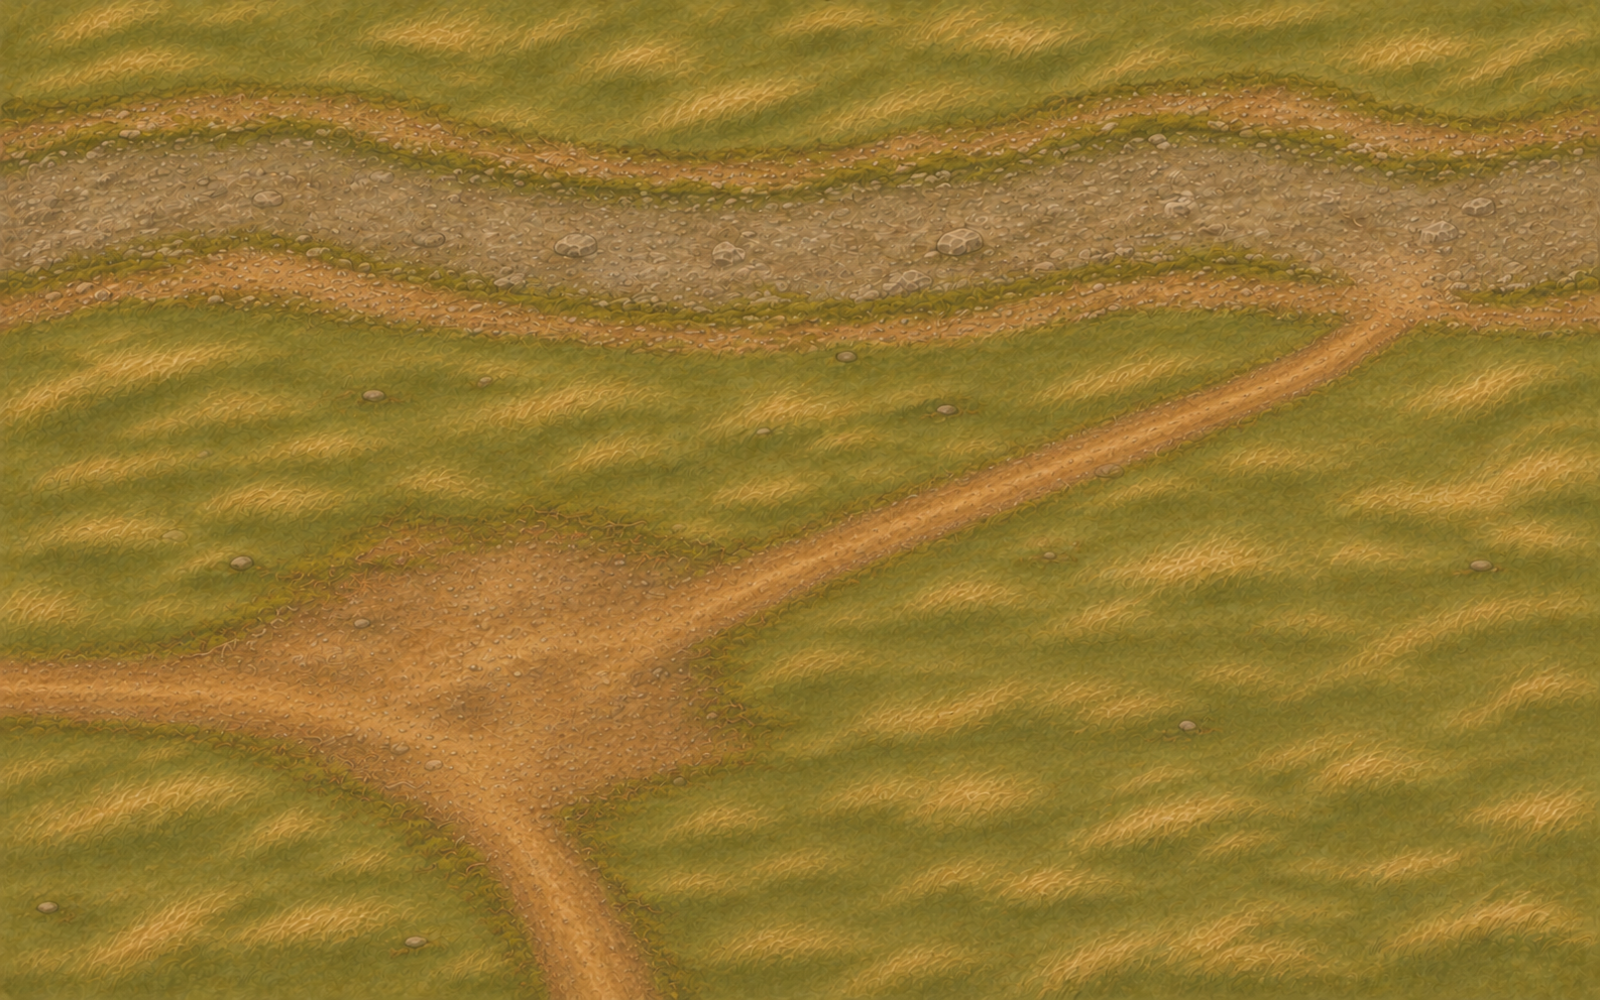
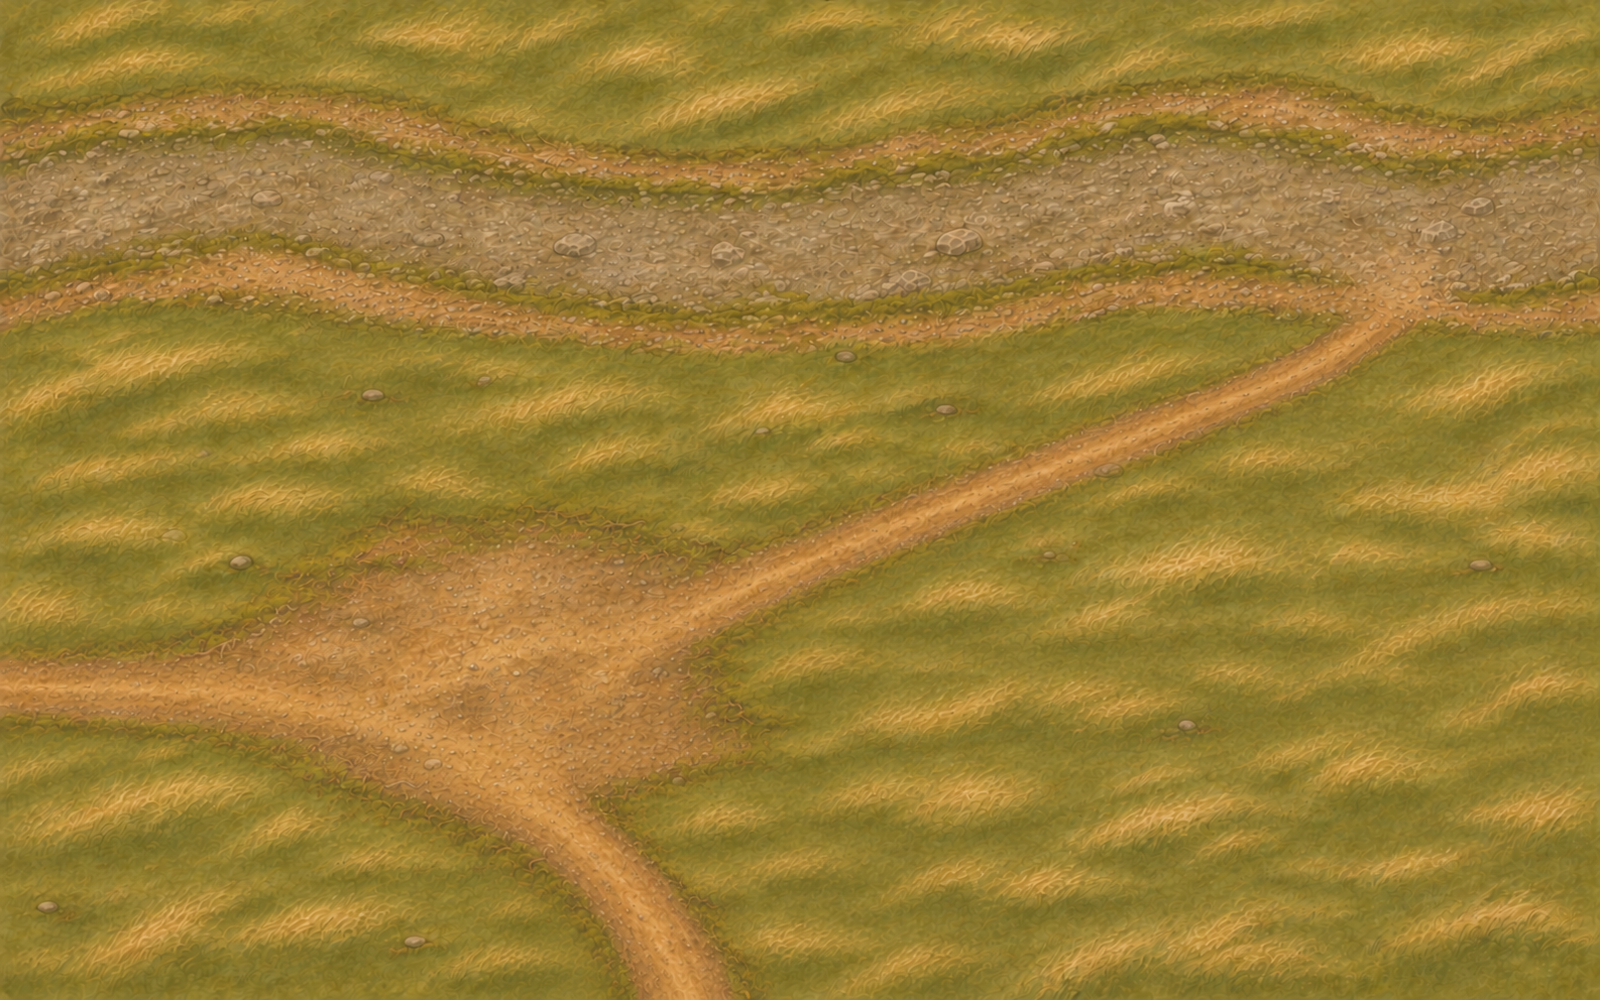
Refine Bogd Khan Uul visual landmarks

Changed region(s): [[0.2188, 0.744, 0.4688, 1.0], [0.2812, 0.589, 0.3125, 0.62]]

diff --git a/tests/unit/bogdKhanUulLevel.test.ts b/tests/unit/bogdKhanUulLevel.test.ts
@@ -45,7 +45,7 @@ describe('Bogd Khan Uul authored layout', () => {
     expect(BOGD_KHAN_UUL.world).toMatchObject({
       width: 6400,
       height: 4000,
-      terrainSize: 6400,
+      terrainSize: 8000,
       minX: -3200,
       minY: -2000,
       camp: { x: -2050, y: -500 },
@@ -56,7 +56,7 @@ describe('Bogd Khan Uul authored layout', () => {
   });
 
   it('has two elevation tiers joined by two broad ramps', () => {
-    expect(BOGD_KHAN_UUL.rise).toBe(240);
+    expect(BOGD_KHAN_UUL.rise).toBe(320);
     expect(BOGD_KHAN_UUL.plateaus).toHaveLength(1);
     expect(shoulder.ramps).toHaveLength(2);
     for (const ramp of shoulder.ramps) {
@@ -85,7 +85,7 @@ describe('Bogd Khan Uul authored layout', () => {
 
   it('frames the north with an authored west-east Tuul course and existing scenery only', () => {
     expect(BOGD_KHAN_UUL.river.kind).toBe('stream');
-    expect(BOGD_KHAN_UUL.river.width).toBeGreaterThanOrEqual(140);
+    expect(BOGD_KHAN_UUL.river.width).toBeGreaterThanOrEqual(220);
     expect(BOGD_KHAN_UUL.river.course[0]).toBeLessThan(BOGD_KHAN_UUL.world.minX);
     expect(BOGD_KHAN_UUL.river.course.at(-2)).toBeGreaterThan(
       BOGD_KHAN_UUL.world.minX + BOGD_KHAN_UUL.world.width,
@@ -98,13 +98,23 @@ describe('Bogd Khan Uul authored layout', () => {
 
 describe('Bogd Khan Uul runtime terrain', () => {
   it('registers play bounds, camp, paths, shoulder, obstacles and Tuul water', () => {
-    expect(terrain.worldSize).toBe(6400);
-    expect(terrain.playBounds).toEqual({ x: 0, y: 1200, width: 6400, height: 4000 });
+    expect(terrain.worldSize).toBe(8000);
+    expect(terrain.playBounds).toEqual({ x: 800, y: 2000, width: 6400, height: 4000 });
+    expect(terrain.playBounds.x).toBeGreaterThanOrEqual(800);
+    expect(
+      terrain.worldSize - terrain.playBounds.x - terrain.playBounds.width,
+    ).toBeGreaterThanOrEqual(800);
+    expect(terrain.playBounds.y).toBeGreaterThanOrEqual(1600);
+    expect(
+      terrain.worldSize - terrain.playBounds.y - terrain.playBounds.height,
+    ).toBeGreaterThanOrEqual(1600);
     expect(terrain.campPosition).toEqual(world(BOGD_KHAN_UUL_SITES.camp));
     expect(WORLD_REGIONS['bogd-khan-uul'].ground?.paths).toEqual(BOGD_KHAN_UUL.paths);
     expect(WORLD_REGIONS['bogd-khan-uul'].obstacles).toHaveLength(BOGD_KHAN_UUL_FOOTPRINTS.length);
     expect(terrain.river).toBeDefined();
-    expect(terrain.river!.sample(3200, 1660).shoreDistance).toBeLessThan(40);
+    expect(
+      terrain.river!.sample(world({ x: 0, y: -1540 }).x, world({ x: 0, y: -1540 }).y).shoreDistance,
+    ).toBeLessThan(40);
   });
 
   it('keeps camp flat, raises the southern shoulder and grades both ramps', () => {
@@ -140,7 +150,7 @@ describe('Bogd Khan Uul painted ground', () => {
     expect(bogdKhanUulPaintedGroundEnabled('', true)).toBe(true);
     expect(bogdKhanUulPaintedGroundEnabled('?bogdKhanUulPaintedGround=0', true)).toBe(false);
     expect(bogdKhanUulPaintedGroundEnabled('?bogdKhanUulPaintedGround=0', false)).toBe(true);
-    expect(bogdKhanUulPaintedGroundWorldBounds(6400)).toEqual([0, 1200, 6400, 4000]);
+    expect(bogdKhanUulPaintedGroundWorldBounds(8000)).toEqual([800, 2000, 6400, 4000]);
     for (const quadrant of PAINTED_GROUND_QUADRANTS) {
       const painting = BOGD_KHAN_UUL_PAINTED_GROUND.quadrants[quadrant];
       const png = readFileSync(resolve(`public/art/bogd-khan-uul/${painting.file}`));

diff --git a/src/game/data/bogdKhanUul.ts b/src/game/data/bogdKhanUul.ts
@@ -61,13 +61,16 @@ export const BOGD_KHAN_UUL = {
   world: {
     width: 6400,
     height: 4000,
-    terrainSize: 6400,
+    // The playable painting remains 6,400 × 4,000. A streamed ground apron keeps the tilted
+    // camera over terrain even at the outer play-bound clamps and minimum zoom.
+    terrainSize: 8000,
     minX: -3200,
     minY: -2000,
     camp: BOGD_KHAN_UUL_SITES.camp,
     campClearRadius: 520,
   },
-  rise: ART_SPEC.orkhon.plateauRise,
+  // A taller wooded shoulder stays legible beneath the dense tree line and at combat zoom.
+  rise: ART_SPEC.orkhon.plateauRise + 80,
   plateaus: [
     {
       id: 'southern-woodland-shoulder',
@@ -109,7 +112,7 @@ export const BOGD_KHAN_UUL = {
       BOGD_KHAN_UUL_SITES.pineHollow,
       EAST_RAMP.top,
       EAST_RAMP.foot,
-      p(1200, 100),
+      p(1470, 100),
       BOGD_KHAN_UUL_SITES.larchGlade,
     ],
     [p(650, 1130), p(0, 1300), BOGD_KHAN_UUL_SITES.tsetseeShoulder],
@@ -117,8 +120,8 @@ export const BOGD_KHAN_UUL = {
   pathWidth: 72,
   river: {
     kind: 'stream' as const,
-    width: 150,
-    color: 0x55777a,
+    width: 240,
+    color: 0x426f78,
     bank: 0x918165,
     course: [
       -3500, -1470, -2600, -1580, -1700, -1450, -700, -1600, 300, -1500, 1300, -1620, 2300, -1480,

diff --git a/tests/visual/bogd-khan-uul-capture.spec.ts b/tests/visual/bogd-khan-uul-capture.spec.ts
@@ -5,14 +5,14 @@ import type { CameraOptions } from '../../src/game/dev/gameControls';
 
 // Repeatable Bogd Khan Uul diagnosis captures, never compared with baselines. Run only with
 // explicit browser-capture approval. Views use the normal 48-degree camera and full resolution.
-const at = (x: number, y: number) => ({ x: 3200 + x, y: 3200 + y });
+const at = (x: number, y: number) => ({ x: 4000 + x, y: 4000 + y });
 
 const SHOTS: readonly { name: string; camera: CameraOptions }[] = [
   { name: '01-camp-and-main-trail', camera: { ...at(-2050, 50), zoom: 1 } },
-  { name: '02-west-ramp-and-shoulder', camera: { ...at(-1275, 1100), zoom: 1 } },
-  { name: '03-tuul-bank-and-landing-road', camera: { ...at(-800, -450), zoom: 1 } },
+  { name: '02-west-ramp-and-shoulder', camera: { ...at(-1275, 760), zoom: 1 } },
+  { name: '03-tuul-bank-and-landing-road', camera: { ...at(-2100, -1320), zoom: 1 } },
   { name: '04-larch-glade', camera: { ...at(780, 100), zoom: 1 } },
-  { name: '05-east-ramp-and-pine-hollow', camera: { ...at(1550, 1150), zoom: 1 } },
+  { name: '05-east-ramp-and-pine-hollow', camera: { ...at(1550, 760), zoom: 1 } },
 ];
 
 interface World3D {

diff --git a/docs/bogd-khan-uul.md b/docs/bogd-khan-uul.md
@@ -4,13 +4,13 @@ Bogd Khan Uul is a 6,400 × 4,000-unit authored battlefield inspired by the prot
 
 ## Layout and traversal
 
-The camp sits on open lower ground at `(-2050, -500)`, away from both painting seams, with a 520-unit spawn-safe clearing. The Tuul follows the northern edge. One 240-unit woodland shoulder fills the south and is reached by broad west and east ramps. Connected tracks link the camp, Tuul landing, larch glade, Tuul bend, Tsetsee shoulder and Pine Hollow; no track ends anonymously in open ground.
+The camp sits on open lower ground at `(-2050, -500)`, away from both painting seams, with a 520-unit spawn-safe clearing. The broad Tuul channel follows the northern edge, with landing and bend tracks reaching its south bank. One 320-unit woodland shoulder fills the south and is reached by broad west and east ramps. Connected tracks link the camp, Tuul landing, larch glade, Tuul bend, Tsetsee shoulder and Pine Hollow; no track ends anonymously in open ground.
 
 The lower meadow and upper shoulder leave broad clear lanes for horde combat. Pine and golden-larch groves concentrate at the outer boundaries, beside the river and along the high shoulder. Dressing clearance keeps trees, scrub and rocks away from camp, tracks, ramp grades, water and solid landmark footprints.
 
 ## Hybrid rendering boundary
 
-Four 1,600 × 1,000 opaque ground paintings cover the approved 6,400 × 4,000 play rectangle. They contain only meadow, woodland soil, roots, needles, gravel, dry Tuul banks and worn tracks. The shared 1,024² grayscale detail tile restores close brush grain. Runtime geometry still owns elevation, cliff faces, ramp grades, water, collision, vegetation, landmarks, actors and shadows.
+Four 1,600 × 1,000 opaque ground paintings cover the approved 6,400 × 4,000 play rectangle. They contain only meadow, woodland soil, roots, needles, gravel, dry Tuul banks and worn tracks. An 8,000-unit streamed terrain square leaves an unpainted ground apron outside the play bounds so the tilted camera never exposes a map-edge gap. The shared 1,024² grayscale detail tile restores close brush grain. Runtime geometry still owns elevation, cliff faces, ramp grades, water, collision, vegetation, landmarks, actors and shadows.
 
 Development builds can append `?bogdKhanUulPaintedGround=0` to inspect the tiled material fallback, or `?bogdKhanUulLevel=generated` to load the former generic region. Shipping builds always use the authored level and paintings.
 

diff --git a/docs/location-landscapes.md b/docs/location-landscapes.md
@@ -102,7 +102,7 @@ boundary, memory budget, and deferred gameplay features.
 
 ## Bogd Khan Uul level
 
-Bogd Khan Uul is authored as a 6,400 × 4,000-unit Tuul-side foothill battlefield with an open lower camp meadow, a northern riverbank and one raised southern woodland shoulder joined by two ramps. Connected tracks reach five named terrain sites while dense pine and golden-larch groves frame broad combat ground. Four hand-painted ground quadrants follow the same terrain, tracks and dry riverbanks; water, cliffs, vegetation, landmarks and collision remain separate runtime layers. See [the level guide](bogd-khan-uul.md) for the layout, hybrid boundary, memory cost and deferred gameplay ideas.
+Bogd Khan Uul is authored as a 6,400 × 4,000-unit Tuul-side foothill battlefield with an open lower camp meadow, a broad northern river channel and one clearly raised southern woodland shoulder joined by two ramps. Connected tracks reach five named terrain sites while dense pine and golden-larch groves frame broad combat ground. Four hand-painted ground quadrants follow the same terrain, tracks and dry riverbanks; water, cliffs, vegetation, landmarks and collision remain separate runtime layers. See [the level guide](bogd-khan-uul.md) for the layout, hybrid boundary, memory cost and deferred gameplay ideas.
 
 ## Rivers and shores
 
